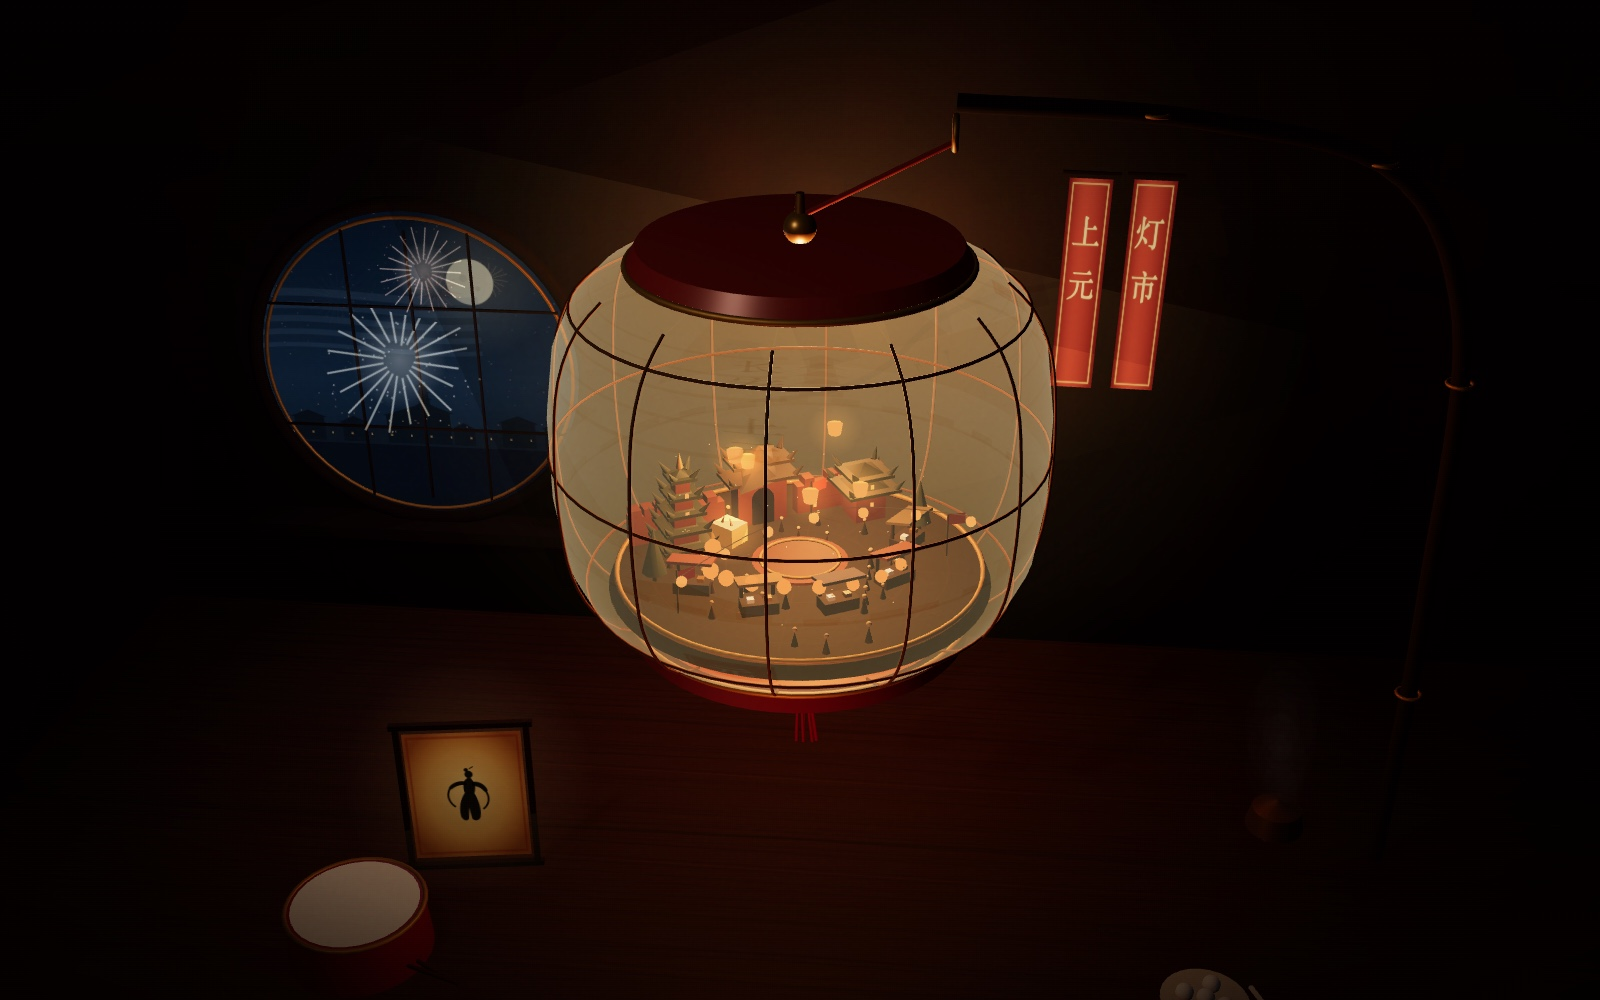
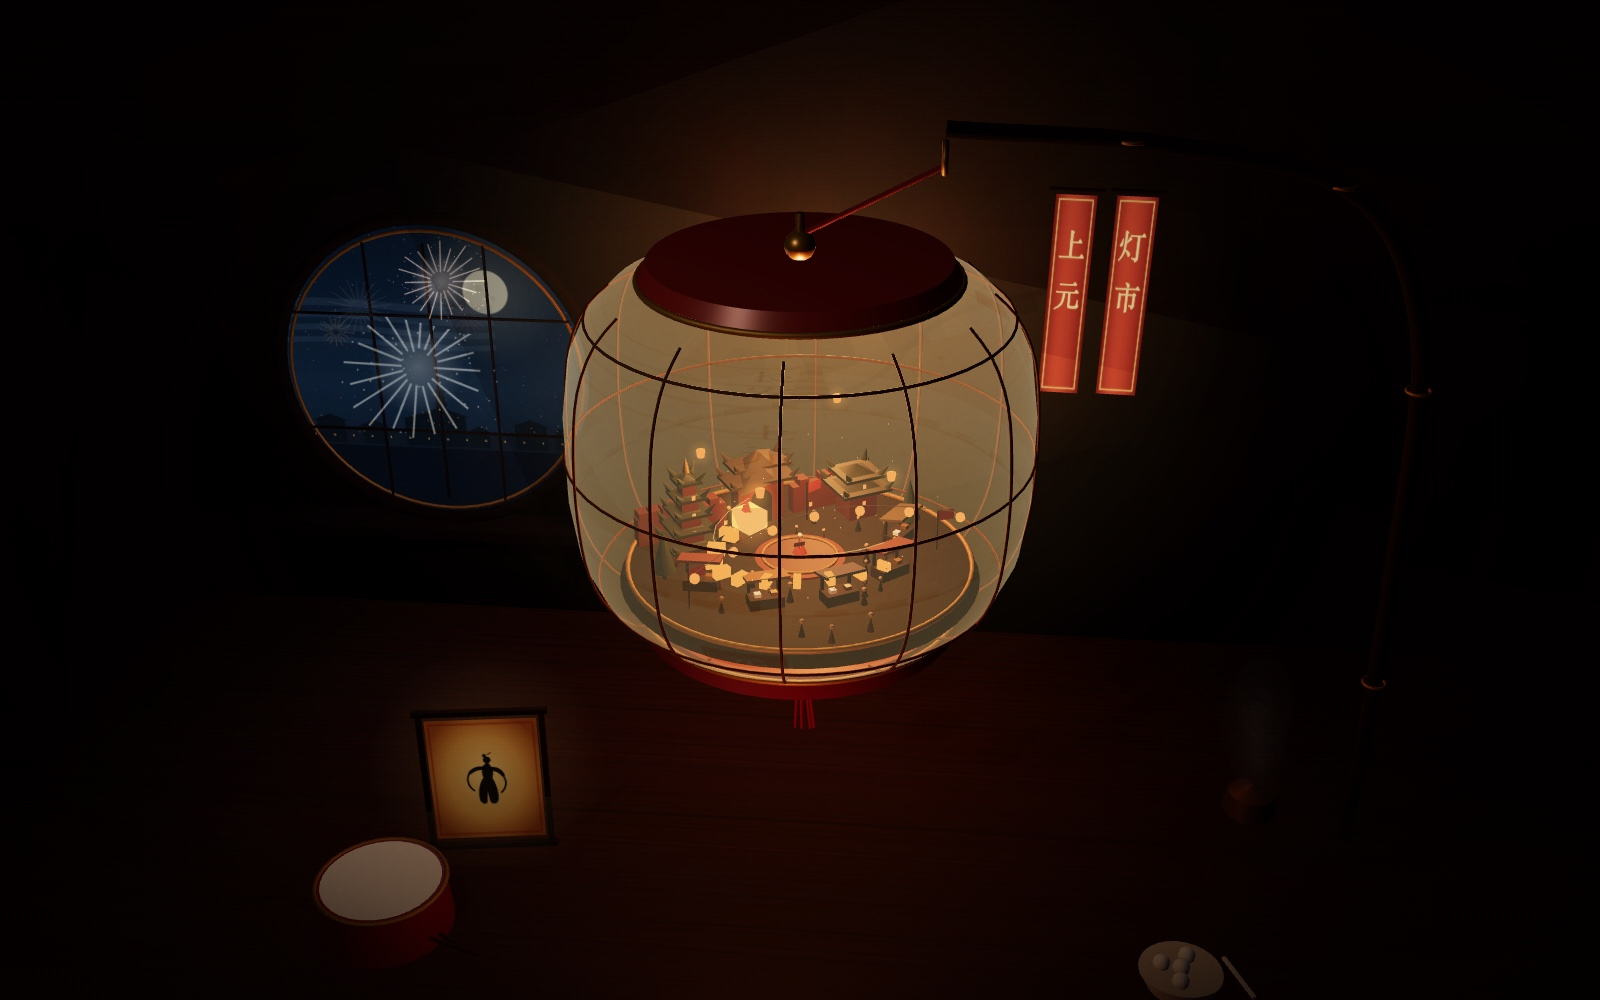
polish: 补全长安灯市的龙灯、舞者与灯影层次

diff --git a/lantern-changan/index.html b/lantern-changan/index.html
@@ -542,7 +542,7 @@ function makePaperTexture(){
   // ink clouds
   x.strokeStyle = 'rgba(86,54,32,.16)';
   x.lineWidth = 7;
-  for (let i = 0; i < 5; i++){
+  for (let i = 0; i < 4; i++){
     x.beginPath();
     const cy = 150 + i * 56;
     x.moveTo(80, cy);
@@ -624,7 +624,7 @@ function makeNightWindow(){
   x.beginPath(); x.arc(mx - 20, my - 12, 12, 0, TAU); x.fill();
   x.beginPath(); x.arc(mx + 24, my + 20, 8, 0, TAU); x.fill();
 
-  for (let i = 0; i < 5; i++){
+  for (let i = 0; i < 4; i++){
     x.strokeStyle = 'rgba(120,148,172,.16)';
     x.lineWidth = 14 + r() * 18;
     x.beginPath();
@@ -1017,7 +1017,7 @@ const broth = new THREE.Mesh(new THREE.CircleGeometry(.128, 28), new THREE.MeshS
 broth.rotation.x = -Math.PI / 2;
 broth.position.y = .055;
 tangyuan.add(broth);
-for (let i = 0; i < 5; i++){
+for (let i = 0; i < 4; i++){
   const a = i * 1.7, rad = i === 0 ? 0 : .06;
   const ball = new THREE.Mesh(new THREE.SphereGeometry(.027, 10, 8), new THREE.MeshStandardMaterial({ color: 0xf2e9d6, roughness: .6 }));
   ball.position.set(Math.cos(a) * rad, .066, Math.sin(a) * rad);
@@ -1198,7 +1198,7 @@ const paperMat = new THREE.ShaderMaterial({
       vec3 col = mix(dim, litCol, uLit);
       col += warm * (0.06 + fres * .3) * uLit * uFlicker;
       col += tex * .06;
-      float alpha = mix(.94, .35, uLit) * (.86 + fres * .2) + ribs;
+      float alpha = mix(.94, .31, uLit) * (.86 + fres * .2) + ribs;
       gl_FragColor = vec4(col, clamp(alpha, 0.0, 1.0));
       #include <tonemapping_fragment>
       #include <colorspace_fragment>
@@ -1315,6 +1315,26 @@ const stageTop = new THREE.Mesh(new THREE.CircleGeometry(.142, 28), new THREE.Me
 stageTop.rotation.x = -Math.PI / 2;
 stageTop.position.y = .0205;
 city.add(stageTop);
+
+const dancer = new THREE.Group();
+dancer.position.set(0, .024, 0);
+city.add(dancer);
+const dancerRobe = new THREE.Mesh(new THREE.ConeGeometry(.024, .052, 7), new THREE.MeshStandardMaterial({ color: 0x9a2f22, roughness: .7 }));
+dancerRobe.position.y = .028;
+dancer.add(dancerRobe);
+const dancerHead = new THREE.Mesh(new THREE.SphereGeometry(.009, 7, 6), new THREE.MeshStandardMaterial({ color: 0xe0bf94, roughness: .7 }));
+dancerHead.position.y = .062;
+dancer.add(dancerHead);
+for (const sx of [-1, 1]){
+  const arm = new THREE.Mesh(new THREE.CylinderGeometry(.003, .003, .035, 4), new THREE.MeshStandardMaterial({ color: 0x8f2d20, roughness: .8 }));
+  arm.position.set(sx * .018, .042, 0);
+  arm.rotation.z = sx * .9;
+  dancer.add(arm);
+}
+const ribbon = new THREE.Mesh(new THREE.PlaneGeometry(.09, .012), new THREE.MeshStandardMaterial({ color: 0xc95a34, roughness: .8, side: THREE.DoubleSide }));
+ribbon.position.set(.035, .05, .004);
+ribbon.rotation.z = .4;
+dancer.add(ribbon);
 
 function roofMesh(w, d, h, mat, x, y, z){
   const g = new THREE.Group();
@@ -1484,7 +1504,7 @@ for (const [x, z] of [[-.42, -.08], [.42, -.06]]){
 
 // crowd
 const crowdCount = 32;
-const crowdBodies = new THREE.InstancedMesh(new THREE.ConeGeometry(.012, .045, 6), new THREE.MeshStandardMaterial({ color: 0x46301f, roughness: .92 }), crowdCount);
+const crowdBodies = new THREE.InstancedMesh(new THREE.ConeGeometry(.012, .045, 6), new THREE.MeshStandardMaterial({ color: 0x5c3e28, roughness: .92 }), crowdCount);
 const crowdHeads = new THREE.InstancedMesh(new THREE.SphereGeometry(.0075, 6, 5), new THREE.MeshStandardMaterial({ color: 0x9d7752, roughness: .8 }), crowdCount);
 const crowd = [];
 const crowdColors = [0x9c6a44, 0x6d4d3a, 0x8f3c2c, 0x5d4a58, 0xb18a5a, 0x3c4a45];
@@ -1504,12 +1524,16 @@ city.add(crowdBodies, crowdHeads);
 
 // dragon dance
 const dragonSegments = 11;
-const dragonMat = new THREE.MeshBasicMaterial({ color: 0xff9a42, toneMapped: false, transparent: true });
-const dragon = new THREE.InstancedMesh(new THREE.SphereGeometry(.027, 8, 6), dragonMat, dragonSegments);
+const dragonMat = new THREE.MeshBasicMaterial({ color: 0xffb04a, toneMapped: false });
+const dragon = new THREE.InstancedMesh(new THREE.BoxGeometry(.058, .038, .03), dragonMat, dragonSegments);
 city.add(dragon);
+const dragonLineGeo = new THREE.BufferGeometry();
+dragonLineGeo.setAttribute('position', new THREE.BufferAttribute(new Float32Array(dragonSegments * 3), 3));
+const dragonLine = new THREE.Line(dragonLineGeo, new THREE.LineBasicMaterial({ color: 0xffc56e, transparent: true, opacity: .8, toneMapped: false }));
+city.add(dragonLine);
 const dragonHead = new THREE.Group();
 city.add(dragonHead);
-const dHead = new THREE.Mesh(new THREE.BoxGeometry(.08, .06, .07), new THREE.MeshStandardMaterial({ color: 0xd6a24e, roughness: .45, emissive: 0x7a3c0e, emissiveIntensity: .4 }));
+const dHead = new THREE.Mesh(new THREE.BoxGeometry(.085, .062, .075), new THREE.MeshBasicMaterial({ color: 0xffc06a, toneMapped: false }));
 dragonHead.add(dHead);
 for (const sx of [-1, 1]){
   const horn = new THREE.Mesh(new THREE.ConeGeometry(.007, .035, 5), goldMat);
@@ -1518,10 +1542,13 @@ for (const sx of [-1, 1]){
   dragonHead.add(horn);
 }
 for (const sx of [-1, 1]){
-  const eye = new THREE.Mesh(new THREE.SphereGeometry(.006, 6, 5), new THREE.MeshBasicMaterial({ color: 0xffe0a0 }));
-  eye.position.set(sx * .016, .01, .026);
+  const eye = new THREE.Mesh(new THREE.SphereGeometry(.007, 6, 5), new THREE.MeshBasicMaterial({ color: 0xfff0c4 }));
+  eye.position.set(sx * .017, .012, .028);
   dragonHead.add(eye);
 }
+const crest = new THREE.Mesh(new THREE.ConeGeometry(.016, .045, 5), new THREE.MeshBasicMaterial({ color: 0xd8452a }));
+crest.position.set(0, .055, -.012);
+dragonHead.add(crest);
 const dragonGlow = new THREE.Sprite(new THREE.SpriteMaterial({ map: glowTex, color: 0xff9a44, transparent: true, opacity: 0, depthWrite: false, blending: THREE.AdditiveBlending }));
 dragonGlow.scale.set(.22, .22, 1);
 city.add(dragonGlow);
@@ -1558,17 +1585,17 @@ city.add(flies);
 
 const skyLanterns = [];
 const skyLanternMat = new THREE.MeshBasicMaterial({ color: 0xffa94f, toneMapped: false, transparent: true });
-for (let i = 0; i < 5; i++){
+for (let i = 0; i < 4; i++){
   const g = new THREE.Group();
-  const body = new THREE.Mesh(new THREE.CylinderGeometry(.024, .018, .034, 8), skyLanternMat);
+  const body = new THREE.Mesh(new THREE.CylinderGeometry(.015, .011, .024, 8), skyLanternMat);
   g.add(body);
   const glow = new THREE.Sprite(new THREE.SpriteMaterial({ map: glowTex, color: 0xff9a42, transparent: true, opacity: .4, depthWrite: false, blending: THREE.AdditiveBlending }));
-  glow.scale.set(.16, .16, 1);
+  glow.scale.set(.085, .085, 1);
   g.add(glow);
-  const a = (i / 5) * TAU + .4;
-  const baseX = Math.cos(a) * (.18 + i * .015);
-  const baseZ = Math.sin(a) * (.16 + i * .01);
-  const baseY = .26 + (i % 3) * .075;
+  const a = (i / 4) * TAU + .7;
+  const baseX = Math.cos(a) * (.3 + i * .01);
+  const baseZ = Math.sin(a) * (.26 + i * .008);
+  const baseY = .34 + (i % 2) * .06;
   g.position.set(baseX, baseY, baseZ);
   city.add(g);
   skyLanterns.push({ g, glowMat: glow.material, baseX, baseY, baseZ, phase: i * 1.3 });
@@ -2323,6 +2350,12 @@ function updateDragon(dt, time){
     if (i === dragonSegments - 1){ tailPos = [x, y, z]; tailRot = -a; }
   }
   dragon.instanceMatrix.needsUpdate = true;
+  const lp = dragonLine.geometry.attributes.position;
+  for (let i = 0; i < dragonSegments; i++){
+    const a = dragonT - i * .33;
+    lp.setXYZ(i, Math.cos(a) * R, .172 + Math.sin(a * 2.2 + time * 2.4) * .014, Math.sin(a) * Rz + .07);
+  }
+  lp.needsUpdate = true;
   if (headPos){
     dragonHead.position.set(headPos[0], headPos[1], headPos[2]);
     dragonHead.rotation.y = headRot;
@@ -2374,7 +2407,7 @@ function animate(){
   tassel.rotation.x = Math.cos(timeNow * 1.1) * .02;
 
   const flicker = 1 + Math.sin(timeNow * 8.1) * .055 + Math.sin(timeNow * 13.7) * .032;
-  candle.intensity = glow * 4.4 * flicker;
+  candle.intensity = glow * 3.0 * flicker;
   paperUniforms.uLit.value = glow;
   paperUniforms.uFlicker.value = flicker;
   paperUniforms.uTime.value = timeNow;
@@ -2401,6 +2434,9 @@ function animate(){
   puppet.position.y = .29 + Math.sin(timeNow * 1.45) * .008;
   puppet.rotation.z = Math.sin(timeNow * .9) * .055 + Math.sin(drumPulse * Math.PI) * .12;
   skyLanternMat.opacity = .3 + glow * .7;
+  dancer.rotation.y = timeNow * .65;
+  dancer.position.y = .024 + Math.abs(Math.sin(timeNow * 2.1)) * .006;
+  ribbon.rotation.y = Math.sin(timeNow * 1.7) * .5;
   for (const sl of skyLanterns){
     sl.g.position.y = sl.baseY + Math.sin(timeNow * .55 + sl.phase) * .028;
     sl.g.position.x = sl.baseX + Math.cos(timeNow * .32 + sl.phase) * .02;
